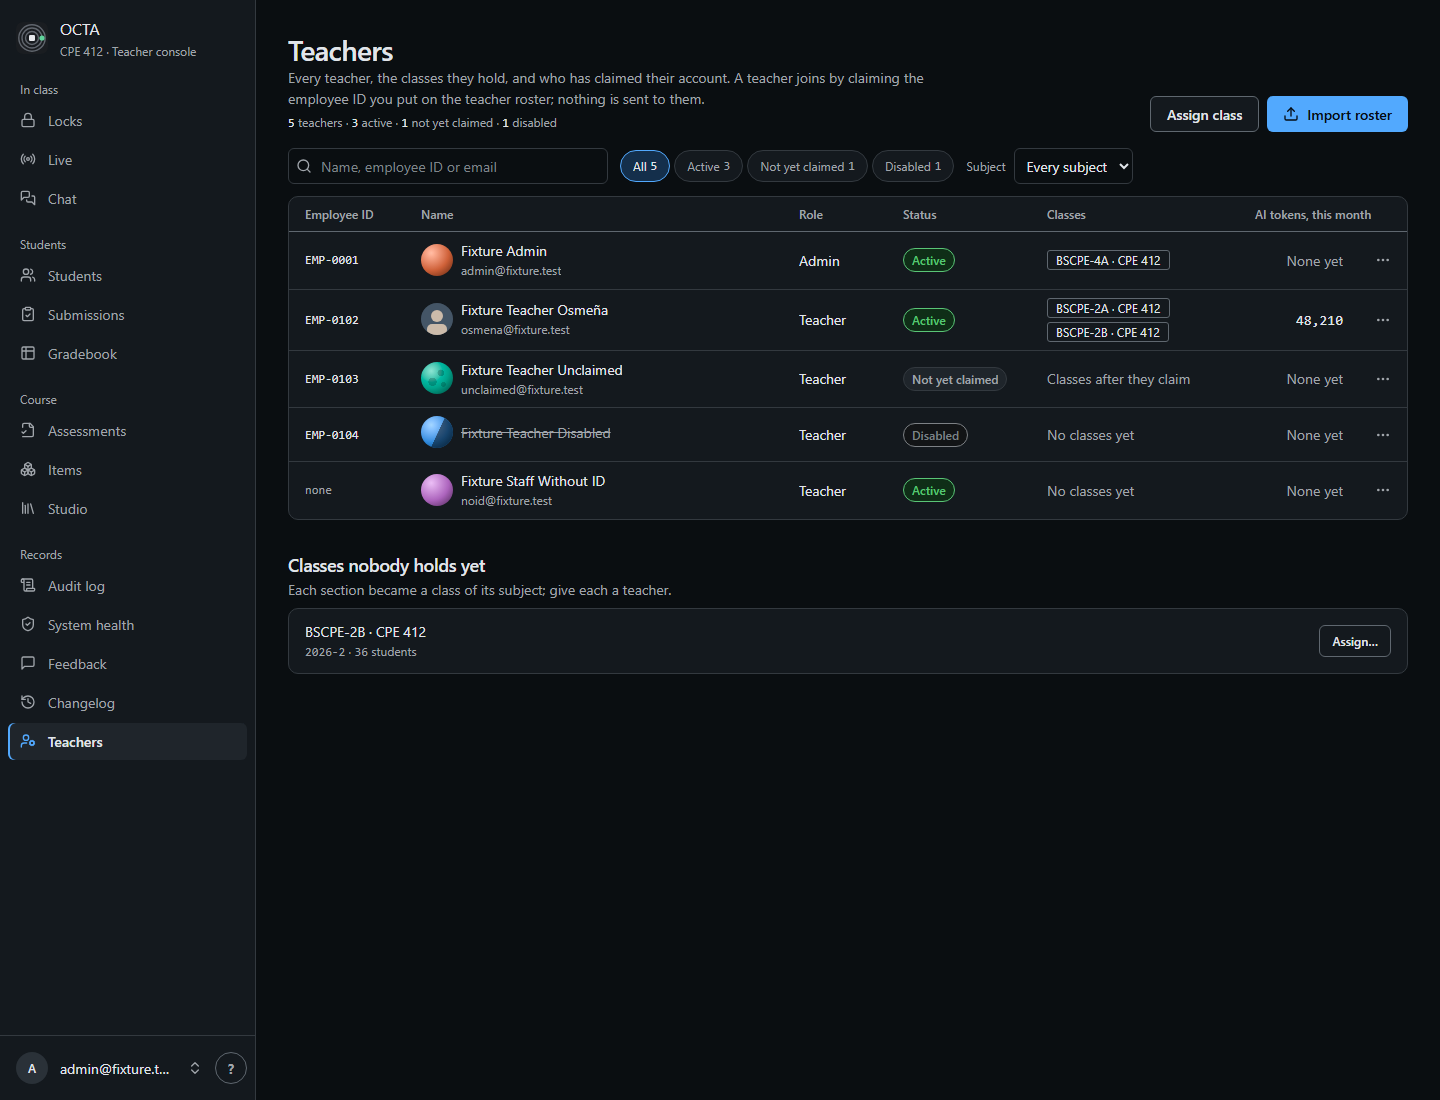
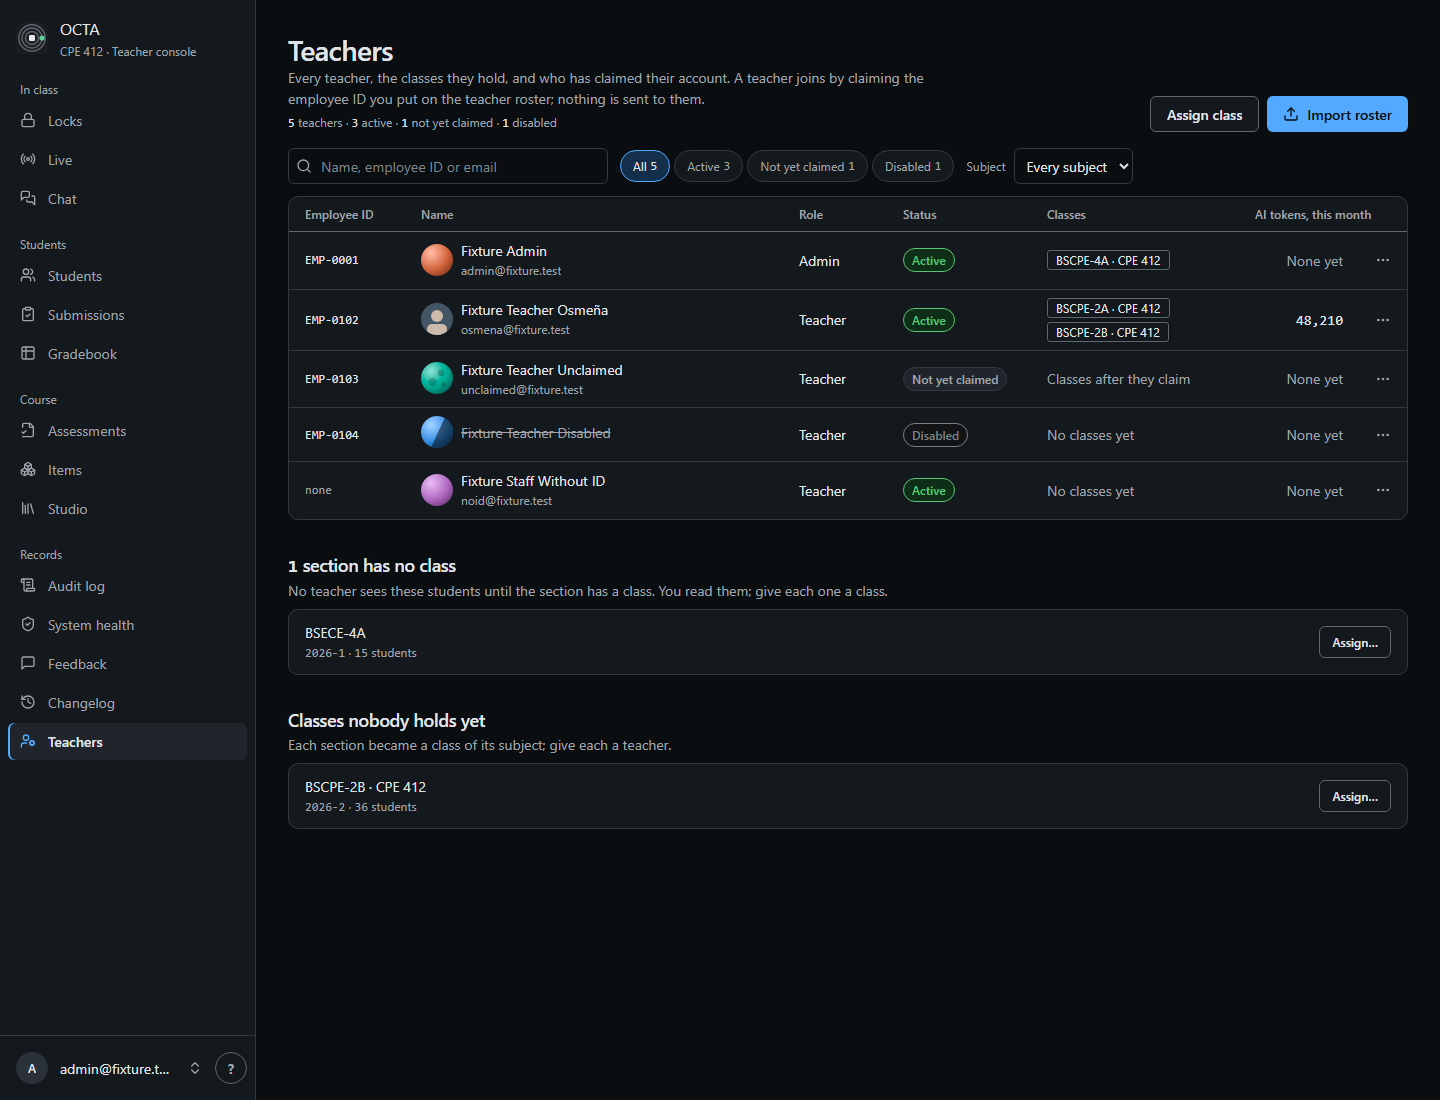
feat(console,api): /teachers says n sections have no class (T2 5.1)
A section with no running class has students no teacher sees; the admin
now sees it counted and named with Assign... preset on it. API test red
first against the old route; page gate green at 1440 and 380.

diff --git a/apps/console/src/pages/TeachersPage.tsx b/apps/console/src/pages/TeachersPage.tsx
@@ -179,6 +179,37 @@ function Teachers() {
             )}
           </section>
 
+          {(data.classless ?? []).length > 0 ? (
+            <section className="mt-6" aria-labelledby="classless-heading" data-classless="">
+              <h2 id="classless-heading" className="font-display text-lg text-ink">
+                <span className="num">{data.classless.length}</span> {data.classless.length === 1 ? "section has" : "sections have"} no class
+              </h2>
+              <p className="mb-2 text-sm text-ink-muted">
+                No teacher sees these students until the section has a class. You read them; give each one a class.
+              </p>
+              <ul className="roster-card unassigned-list">
+                {data.classless.map((s) => (
+                  <li key={s.id} className="unassigned-row">
+                    <span className="min-w-0">
+                      <span className="text-sm text-ink">{s.code}</span>
+                      <span className="block text-xs text-ink-muted">
+                        <span className="num">{s.term}</span> · <span className="num">{s.students}</span> {s.students === 1 ? "student" : "students"}
+                      </span>
+                    </span>
+                    <Button
+                      size="sm"
+                      variant="outline"
+                      aria-label={`Give ${s.code} a class`}
+                      onClick={(e) => { remember(e.currentTarget); setAssign({ teacher: null, sectionId: s.id, term: s.term }); }}
+                    >
+                      Assign…
+                    </Button>
+                  </li>
+                ))}
+              </ul>
+            </section>
+          ) : null}
+
           {data.unassigned.length > 0 ? (
             <section className="mt-6" aria-labelledby="unassigned-heading">
               <h2 id="unassigned-heading" className="font-display text-lg text-ink">Classes nobody holds yet</h2>

diff --git a/design/specs/console-teachers.spec.ts b/design/specs/console-teachers.spec.ts
@@ -176,6 +176,25 @@ test.describe("/teachers — SPEC.md", () => {
     });
   });
 
+  test("a section with no class is counted and named, and Assign… opens on it (T2 5.1)", async ({ page }) => {
+    const writes = await openTeachers(page);
+    const box = page.locator("[data-classless]");
+    await expect(box.getByRole("heading")).toHaveText("1 section has no class");
+    await expect(box).toContainText("BSECE-4A");
+    await expect(box).toContainText("15 students");
+    await box.getByRole("button", { name: "Give BSECE-4A a class" }).click();
+    const d = page.getByRole("dialog");
+    await expect(d.getByLabel("Section")).toHaveValue("5ec7f1a0-0000-4000-8000-0000000000ec");
+    await expect(d.getByLabel("Term")).toHaveValue("2026-1");
+    await d.getByLabel("Teacher").selectOption({ label: "Fixture Teacher Osmeña" });
+    await d.getByLabel("Reason (required)").fill("BSECE-4A gets its CPE 412 class");
+    await d.getByRole("button", { name: "Assign class" }).click();
+    await expect(d).toBeHidden();
+    expect(writes.classes[0]).toMatchObject({ sectionId: "5ec7f1a0-0000-4000-8000-0000000000ec", subjectCode: "CPE 412", term: "2026-1" });
+    if (wide()) await box.scrollIntoViewIfNeeded();
+    await page.screenshot({ path: `design/templates/console/teachers/current-classless${wide() ? "" : "-380"}.png`, fullPage: !wide() });
+  });
+
   test("a write that fails says so and keeps the dialog open", async ({ page }) => {
     await openTeachers(page, { failWrites: true });
     await openDisable(page);

diff --git a/design/specs/_teachers-fixture.ts b/design/specs/_teachers-fixture.ts
@@ -13,6 +13,7 @@ export const ADMIN_ID = "aaaaaaaa-0000-4000-8000-0000000000ad";
 const S2A = "5ec7f1a0-0000-4000-8000-00000000002a";
 const S2B = "5ec7f1a0-0000-4000-8000-00000000002b";
 const S4A = "5ec7f1a0-0000-4000-8000-00000000004a";
+const SEC = "5ec7f1a0-0000-4000-8000-0000000000ec";
 const BOOK9 = "b00c0000-0000-4000-8000-000000000009";
 const BOOK10 = "b00c0000-0000-4000-8000-000000000010";
 
@@ -51,10 +52,13 @@ export const TEACHERS = {
   ],
   counts: { total: 5, active: 3, unclaimed: 1, disabled: 1 },
   unassigned: [{ ...cls("c1a00000-0000-4000-8000-000000000009", S2B, "BSCPE-2B", 36), term: "2026-2" }],
+  // T2 5.1: a section imported with no class (BSECE-4A on the deployment before the rollout).
+  classless: [{ id: SEC, code: "BSECE-4A", term: "2026-1", students: 15 }],
   sections: [
     { id: S2A, code: "BSCPE-2A", term: "2026-1" },
     { id: S2B, code: "BSCPE-2B", term: "2026-1" },
     { id: S4A, code: "BSCPE-4A", term: "2026-1" },
+    { id: SEC, code: "BSECE-4A", term: "2026-1" },
   ],
   subjects: [{
     code: "CPE 412", title: "Computer Architecture and Organization", books: [

diff --git a/services/api/test/teachers-api.spec.ts b/services/api/test/teachers-api.spec.ts
@@ -130,6 +130,13 @@ describe("the admin's list and a teacher's page", () => {
     expect(body.subjects[0]).toMatchObject({ code: "CPE 412" });
     expect(body.subjects[0].books.length).toBeGreaterThanOrEqual(2);
   });
+  it("T2 5.1: a section with no running class is listed in `classless`, with its students; a held one is not", async () => {
+    const sec = (await setup(`insert into sections (code, term) values ('NOCLASS-1', '2026-1') returning id::text`)).rows[0]!.id;
+    const r = await inject("GET", "/api/v1/console/teachers", adminTok);
+    const classless = r.json().classless as Array<{ id: string; code: string; students: number }>;
+    expect(classless.find((s) => s.id === sec)).toMatchObject({ code: "NOCLASS-1", students: 0 });
+    expect(classless.find((s) => s.id === w.sectionId), "the world's held section is not classless").toBeUndefined();
+  });
   it("opens one teacher by user id; an unknown key is 404", async () => {
     const r = await inject("GET", `/api/v1/console/teachers/${w.teacher}`, adminTok);
     expect(r.statusCode).toBe(200);

diff --git a/services/api/src/routes/teachers.ts b/services/api/src/routes/teachers.ts
@@ -176,6 +176,15 @@ export function registerTeacherRoutes(
         disabled: teachers.filter((t) => t.status === "disabled").length,
       },
       unassigned: classes.filter((c) => c.teacher_id === null && c.ended_at === null).map(toClass),
+      classless: (
+        await app.db.query<{ id: string; code: string; term: string; students: number }>(
+          `select s.id::text, s.code, s.term,
+                  (select count(*)::int from profiles p where p.section_id = s.id and p.role = 'student') as students
+             from sections s
+            where not exists (select 1 from classes c where c.section_id = s.id and c.ended_at is null)
+            order by s.code`,
+        )
+      ).rows,
       sections: await loadSections(app.db),
       subjects: await loadSubjects(app.db),
     };

diff --git a/packages/contracts/src/index.ts b/packages/contracts/src/index.ts
@@ -1096,6 +1096,11 @@ export const TeachersResponse = z.object({
   }),
   /** Classes nobody holds yet: the admin assigns them. */
   unassigned: z.array(TeacherClass),
+  /**
+   * T2 5.1: sections with no running class at all, so no teacher sees their students (the admin reads
+   * them). Before the rollout BSECE-4A was one. The admin gives each a class.
+   */
+  classless: z.array(SectionRef.extend({ students: z.number().int() })),
   sections: z.array(SectionRef),
   subjects: z.array(Subject),
 });
